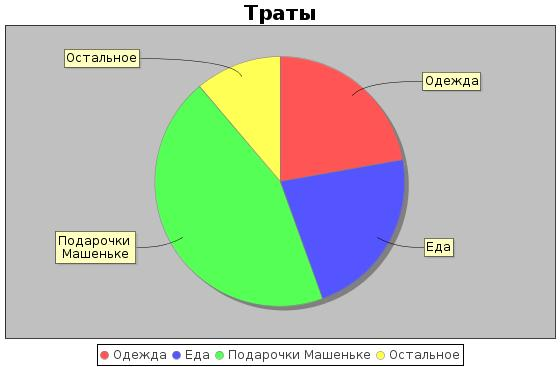
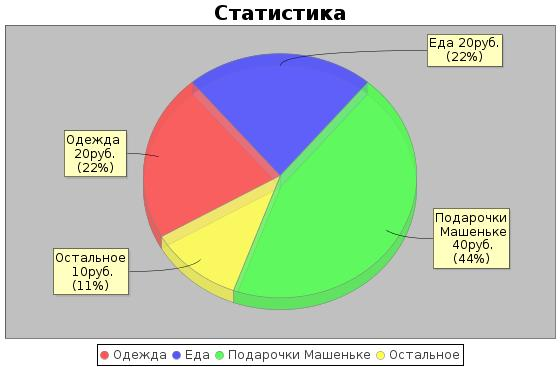
statistic customization

diff --git a/src/main/java/com/bot/service/util/DataToImageConverter.java b/src/main/java/com/bot/service/util/DataToImageConverter.java
@@ -1,48 +1,59 @@
 package com.bot.service.util;
 
+import com.bot.model.dto.StatisticDto;
 import org.jfree.chart.ChartFactory;
 import org.jfree.chart.ChartPanel;
 import org.jfree.chart.JFreeChart;
+import org.jfree.chart.labels.StandardPieSectionLabelGenerator;
+import org.jfree.chart.plot.PiePlot3D;
 import org.jfree.data.general.DefaultPieDataset;
 import org.jfree.data.general.PieDataset;
+import org.jfree.util.Rotation;
 
 import javax.imageio.ImageIO;
 import javax.swing.*;
 import java.awt.image.BufferedImage;
 import java.io.File;
 import java.io.IOException;
+import java.text.NumberFormat;
+import java.util.List;
 
 public class DataToImageConverter {
 
-    //временный датасет. Привязать к реальным данным
-    private static PieDataset createDataset() {
+    private static PieDataset createDataset(List<StatisticDto> data) {
         DefaultPieDataset dataset = new DefaultPieDataset();
-        dataset.setValue( "Одежда", new Double(20));
-        dataset.setValue( "Еда", new Double(20));
-        dataset.setValue( "Подарочки Машеньке", new Double(40));
-        dataset.setValue( "Остальное", new Double(10));
+        data.forEach(x -> dataset.setValue(x.getCategory(), x.getPrice().doubleValue()));
         return dataset;
     }
 
     private static JFreeChart createChart(PieDataset dataset) {
-        JFreeChart chart = ChartFactory.createPieChart(
+        final JFreeChart chart = ChartFactory.createPieChart3D(
                 "Статистика",
                  dataset,
                 true,
                 true,
                 false);
 
+        final PiePlot3D plot = (PiePlot3D) chart.getPlot();
+        plot.setStartAngle(210);
+        plot.setDirection(Rotation.CLOCKWISE);
+        plot.setForegroundAlpha(0.7f);
+        plot.setDepthFactor(0.05f);
+        plot.setLabelGenerator(new StandardPieSectionLabelGenerator(
+                "{0} {1}руб.({2})", NumberFormat.getNumberInstance(), NumberFormat.getPercentInstance()));
+        plot.setNoDataMessage("No data to display");
+
         return chart;
     }
 
-    private static JPanel createDemoPanel() {
-        JFreeChart chart = createChart(createDataset());
+    private static JPanel createDemoPanel(List<StatisticDto> dataset) {
+        JFreeChart chart = createChart(createDataset(dataset));
         return new ChartPanel(chart);
     }
 
     private static File takePicture(JPanel panel) {
         File image = new File("statistic.jpg");
-        panel.setSize(560, 367 );
+        panel.setSize(560, 367);
         BufferedImage img = new BufferedImage(panel.getWidth(), panel.getHeight(), BufferedImage.TYPE_INT_RGB);
         panel.print(img.getGraphics());
         try {
@@ -54,7 +65,7 @@ public class DataToImageConverter {
         return image;
     }
 
-    public static File convert(){
-        return takePicture(createDemoPanel());
+    public static File convert(List<StatisticDto> dataset){
+        return takePicture(createDemoPanel(dataset));
     }
 }

diff --git a/src/main/java/com/bot/service/ProductService.java b/src/main/java/com/bot/service/ProductService.java
@@ -10,6 +10,7 @@ import org.springframework.stereotype.Service;
 import java.math.BigDecimal;
 import java.time.LocalDateTime;
 import java.util.List;
+import java.util.stream.Collectors;
 
 @Service
 public class ProductService {
@@ -27,16 +28,16 @@ public class ProductService {
         return productRepository.getAllByDataBetween(start, end);
     }
 
-    private List<Object[]> getStatistic(LocalDateTime start, LocalDateTime end){
-        return productRepository.getStatistic(start, end);
-    }
-
-    public String getStaticticMsg(LocalDateTime start, LocalDateTime end, BigDecimal total) {
-        StringBuilder str = new StringBuilder();
-        getStatistic(start, end)
+    public List<StatisticDto> getStatistic(LocalDateTime start, LocalDateTime end){
+        return productRepository.getStatistic(start, end)
                 .stream()
                 .map(this::toStatisticsDto)
-                .forEach(price -> str.append(price.toString())
+                .collect(Collectors.toList());
+    }
+
+    public String getStaticticMsg(List<StatisticDto> data, BigDecimal total) {
+        StringBuilder str = new StringBuilder();
+        data.forEach(price -> str.append(price.toString())
                         .append(" (")
                         .append(CalculateUtils.getPercent(price.getPrice(), total))
                         .append("%)\n"));

diff --git a/src/main/java/com/bot/commands/commonCommands/GetStatistic.java b/src/main/java/com/bot/commands/commonCommands/GetStatistic.java
@@ -1,6 +1,7 @@
 package com.bot.commands.commonCommands;
 
 import com.bot.commands.PlannerBaseCommand;
+import com.bot.model.dto.StatisticDto;
 import com.bot.service.ProductService;
 import com.bot.service.util.DataToImageConverter;
 import com.bot.service.util.ParseUtil;
@@ -16,6 +17,7 @@ import java.math.BigDecimal;
 import java.time.DateTimeException;
 import java.time.LocalDateTime;
 import java.time.temporal.TemporalAdjusters;
+import java.util.List;
 
 @Component
 public class GetStatistic extends PlannerBaseCommand {
@@ -51,10 +53,11 @@ public class GetStatistic extends PlannerBaseCommand {
             }
             if (argsIsOk) {
                 BigDecimal total = productService.totalSpend(startDate, endDate);
-                productService.getStaticticMsg(startDate, endDate, total);
+                List<StatisticDto> statisticData = productService.getStatistic(startDate, endDate);
+                productService.getStaticticMsg(statisticData, total);
                 message.append("Всего потрачено: ").append(total == null ? "0 руб." : total);
                 if(total != null) {
-                    File img = DataToImageConverter.convert();
+                    File img = DataToImageConverter.convert(statisticData);
                     sendPhoto(absSender, user, chat, img);
                 }
             }
